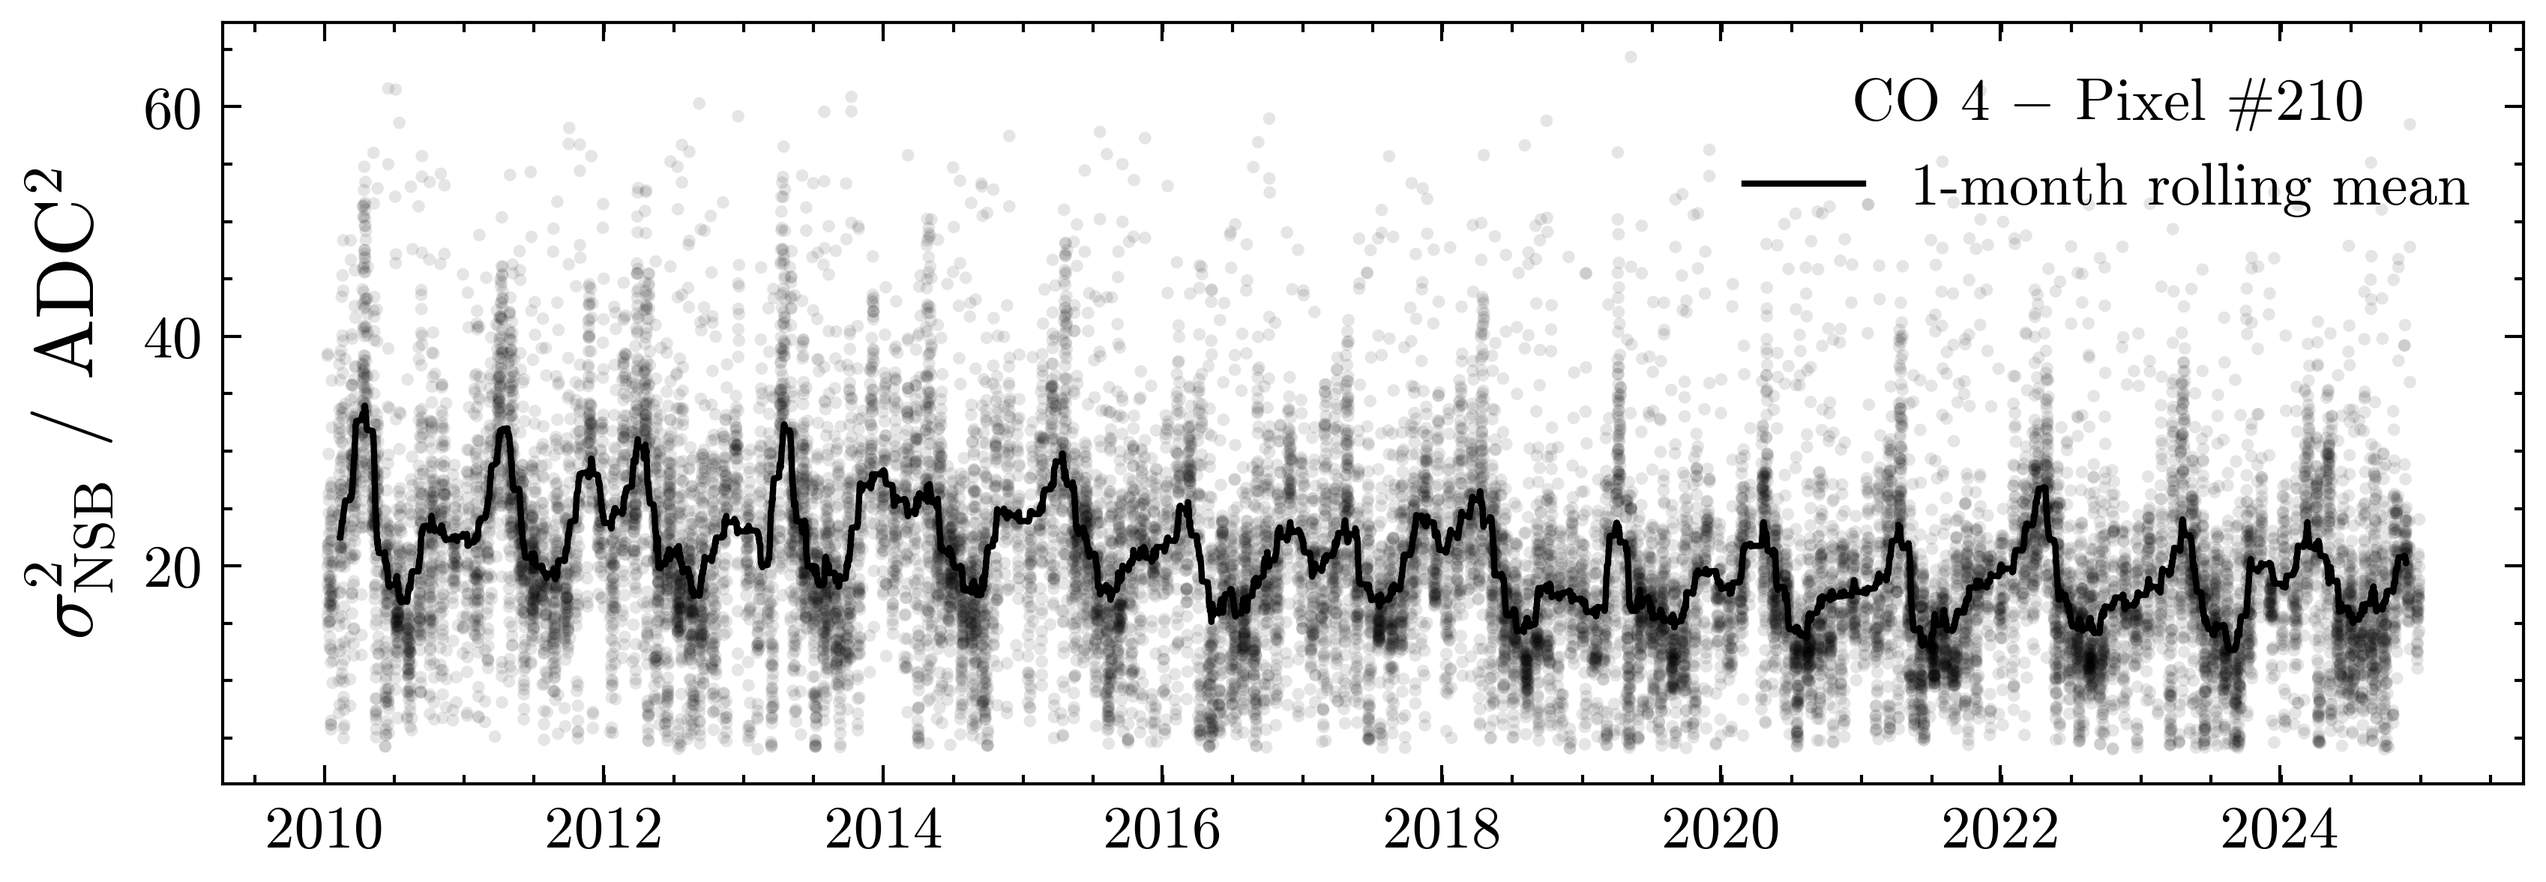
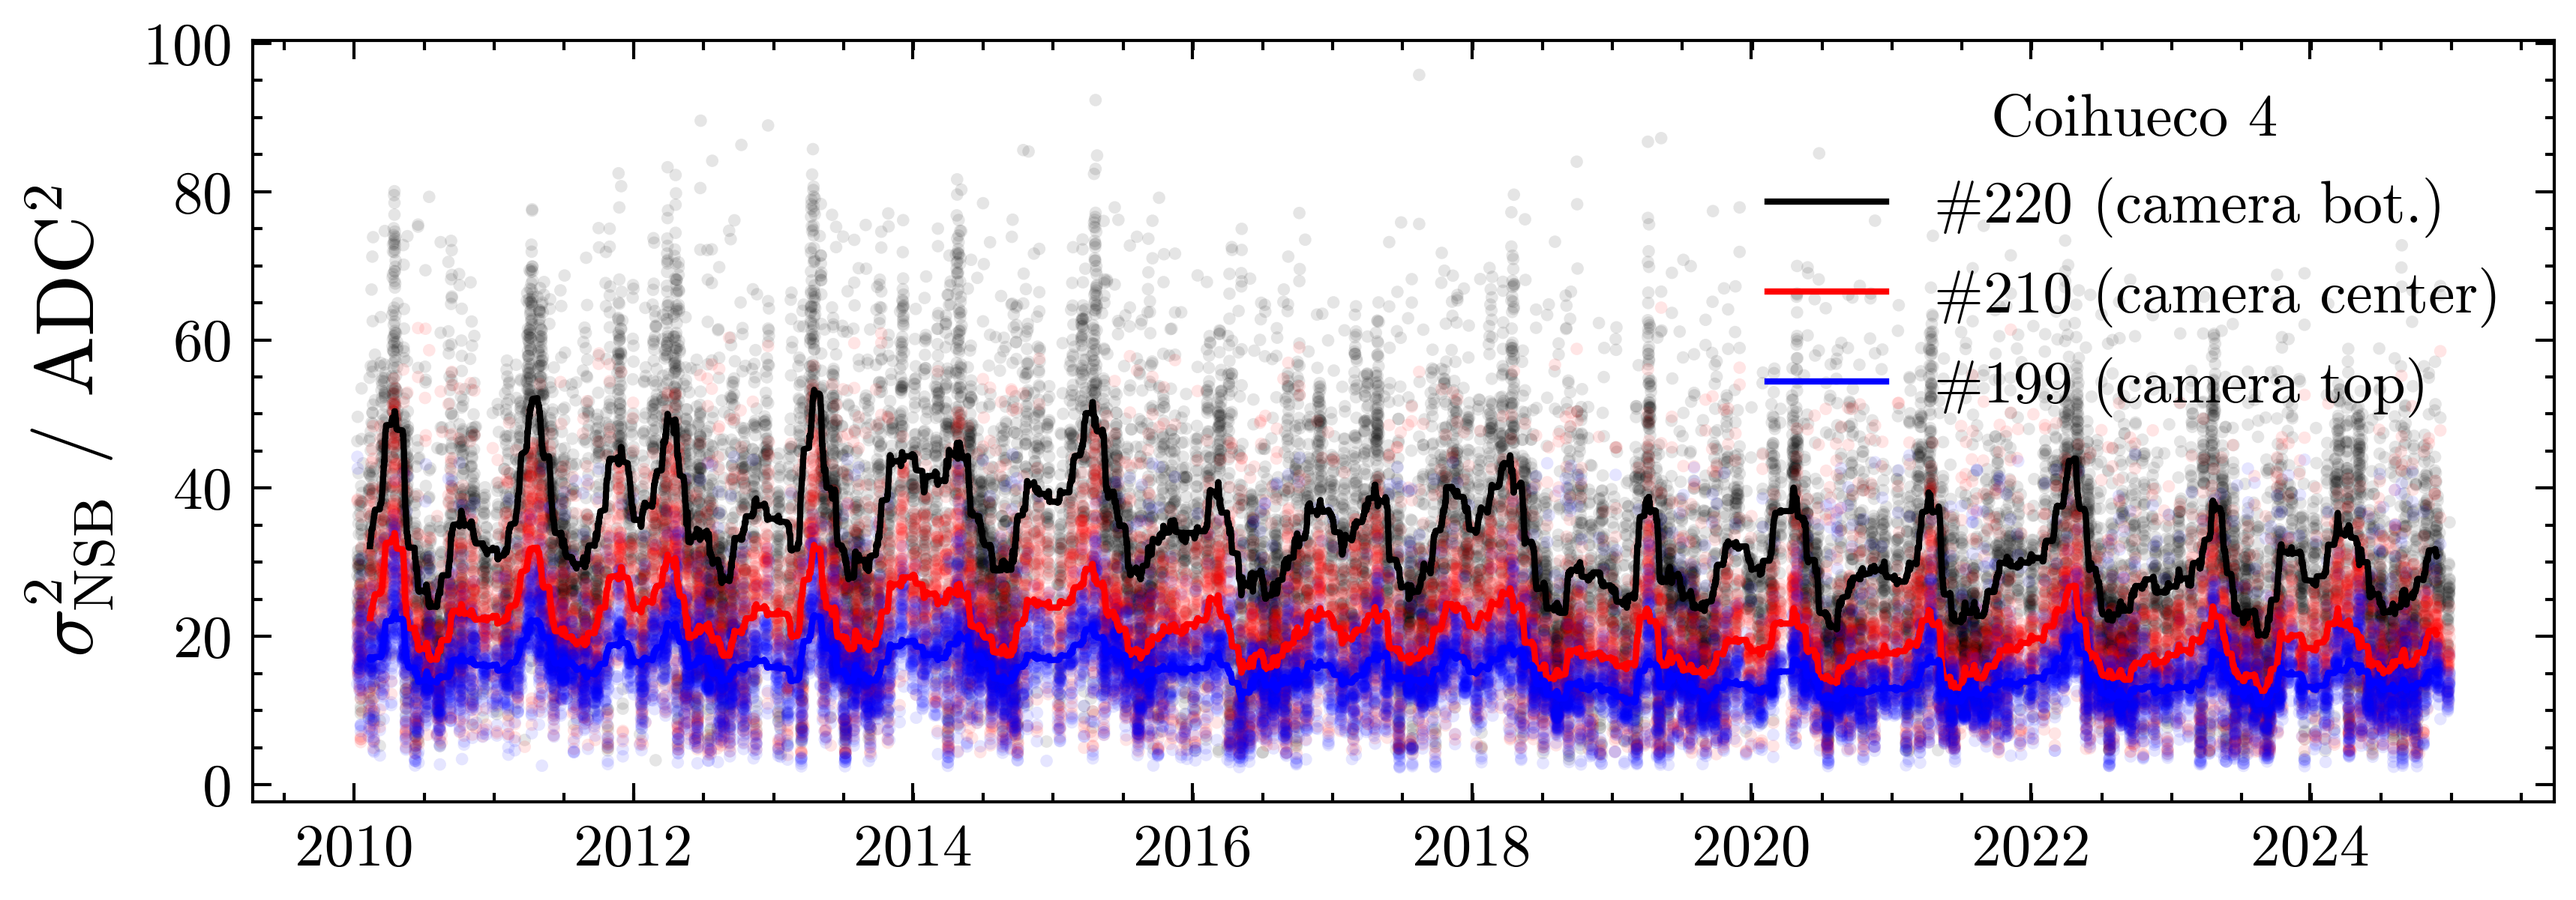
update plots

diff --git a/chap/04-determination-of-absolute-energy-scale.tex b/chap/04-determination-of-absolute-energy-scale.tex
@@ -182,7 +182,7 @@ $\sqrt{\sum\upsigma_i^2}$, amounts to \todo{uncertainty}.
   	\toprule
 	 & & XY & Drum \\
 	\hline
-	Contribution & details & \multicolumn{2}{c}{$\upsigma_i$} \\
+	Contribution & details & \upmulticolumn{2}{c}{$\upsigma_i$} \\
 	\hline
 	Radiance of light source & & & \SI{2.1}{\percent} \\
 	Aperture coverage factor & 
@@ -371,7 +371,7 @@ from the \PD mounted inside the integrating sphere.
 Focusing on the \PD signal normalized to the respective light source radiance, 
 we identify possible drifts in the \CLS brightness during the scan by fitting
 a first order polynomial to it for each run, assuming a systematic uncertainty 
-of the form $\mathcal{N}(\mu = \SI{0.583}{\ADC\per\giga\photon},\, 
+of the form $\mathcal{N}(\upmu = \SI{0.583}{\ADC\per\giga\photon},\, 
 \upsigma^2=\SI{0.009}{\square\ADC\per\giga\square\photon})$ 
 (Ref.~\cref{fig:sigma-pd}).
 
@@ -993,14 +993,12 @@ $22\,000$ hours of \DAQ for the $11880$ individuals pixels in all $27$
 
 \subsection{Large Scale Patterns}
 
-\todo[inline]{fix sigmas and upsigmas (need consistent use)}
-
-The temporal evolution of $\upsigma^2_\mathrm{NSB}$ for a single pixel over the
-past 15 years is shown in \cref{fig:one-pixel-nsb}. The \NSB dataset remains 
-noisy ($\frac{\upsigma_\mathrm{NSB}}{\upmu_\mathrm{NSB}}=\frac{8.8}{20.4}
-\approx\SI{43}{\percent}$), even at an hourly resolution. Calculating a rolling
-average over data over a month yields a clearer image and reveals seasonal 
-trends.
+The temporal evolution of $\upsigma^2_\mathrm{NSB}$ for individual pixels over 
+the past 15 years is shown in \cref{fig:one-pixel-nsb}. The \NSB dataset 
+remains noisy ($\frac{\upsigma_\mathrm{NSB}}{\upmu_\mathrm{NSB}} = 
+\frac{8.8}{20.4}\approx\SI{43}{\percent}$), even at an hourly resolution. 
+Calculating a rolling average over data over a month yields a clearer image and
+reveals seasonal trends.
 
 \begin{figure}[t]
   \centering
@@ -1010,10 +1008,12 @@ trends.
   \subfloat[]{\includegraphics[width=1.0\textwidth]{xy-scanner/one_pixel_psd.png}
   \label{fig:one-pixel-psd}
   }
-  \caption[]{\subref{fig:one-pixel-nsb} \NSB data spanning 15 years for pixel 
-  $\#210$ at the center of the camera in \CO4. \subref{fig:one-pixel-psd} 
-  Lomb-Scargle periodogram of the data in \subref{fig:one-pixel-nsb}. Several 
-  peaks are marked.}
+  \caption[]{\subref{fig:one-pixel-nsb} \NSB data spanning 15 years for 
+  different pixels in the \CO4 camera. \subref{fig:one-pixel-psd} Lomb-Scargle
+  periodogram of the data in \subref{fig:one-pixel-nsb}. The difference in
+  pulse amplitudes among pixels stems from the difference in the mean 
+  $\upmu_\mathrm{NSB}$. When accounting for this difference the magnitude of
+  the \FD ageing is the same for all pixels.}
   \label{fig:one-pixel-view}
 \end{figure}
 
@@ -1026,14 +1026,14 @@ evident that several effects contribute to the erratic \NSB patterns
 
 The strongest influence over the minute-value of $\upsigma_\mathrm{NSB}$ hold
 short-scale effects with period durations of $\leq\SI{1}{\mathrm{day}}$. These
-effects are weather phenomena (cloud occlusion, lightning, etc.) and the
-nightly evolution of the telescope sensitivity driven by changes in the 
-electronic gain of the pixel-\PMTs.
+effects are weather phenomena (cloud occlusion, lightning, star transitions, 
+etc.) and the nightly evolution of the telescope sensitivity driven by changes 
+in the electronic gain of the pixel-\PMTs.
 
 With the former especially being dependent on (to the \FD) external variables, 
-the nightly variations in the \NSB are difficult to predict, and the amplitude
-of the aforementioned effects is indicative of the accuracy with which we can 
-model the temporal evolution of $\upsigma_\mathrm{NSB}$ for a given moment.
+the aforementioned effects are difficult to model. Their amplitude is 
+indicative of the accuracy with which one can predict the temporal evolution of
+$\upsigma_\mathrm{NSB}$.
 
 \subsubsection{Moon Cycles}
 
@@ -1049,21 +1049,29 @@ as monthly modulations.
 \subsubsection{Seasonal Patterns}
 
 The night side of the Earth is exposed to different parts of the night sky as
-it revolves around the sun. This results in a strong yearly modulation
+it revolves around the sun. This results in a strong yearly modulation of
+$\upsigma_\mathrm{NSB}$. The fluctuations are amplified by seasonally recurring
+atmospheric conditions.
+
+The second harmonic of this modulation is also well visible at a period length
+of six months, and possibly reinforced by the half-wave symmetry of the
+terrestrial orbit creating similar conditions for air glow and zodiacal light 
+bi-annually. Higher order harmonics are not (clearly) visible in the \PSD, most
+likely due to the strongly decorrelating effects of nightly variations.
 
 \subsubsection{Sinusoidal Model}
+
+An empirical model of the temporal evolution can be derived from the 
+periodically effects discussed above. 
+
+\subsubsection{Model Performance}
+
 
 \subsection{Non-Reversible Component}
 
 
-
-\begin{itemize}
-\item \textbf{22 days to approx.~1 month}
-\item \textbf{6 months}
-\item \textbf{1 year}
-\item \textbf{$>10$ years}
-\end{itemize}
-
+\subsubsection{Continuous Drift}
+\subsubsection{Discrete Jump}
 
 \section{FD Energy Scale}
 \label{sec:fd-energy-scale}
